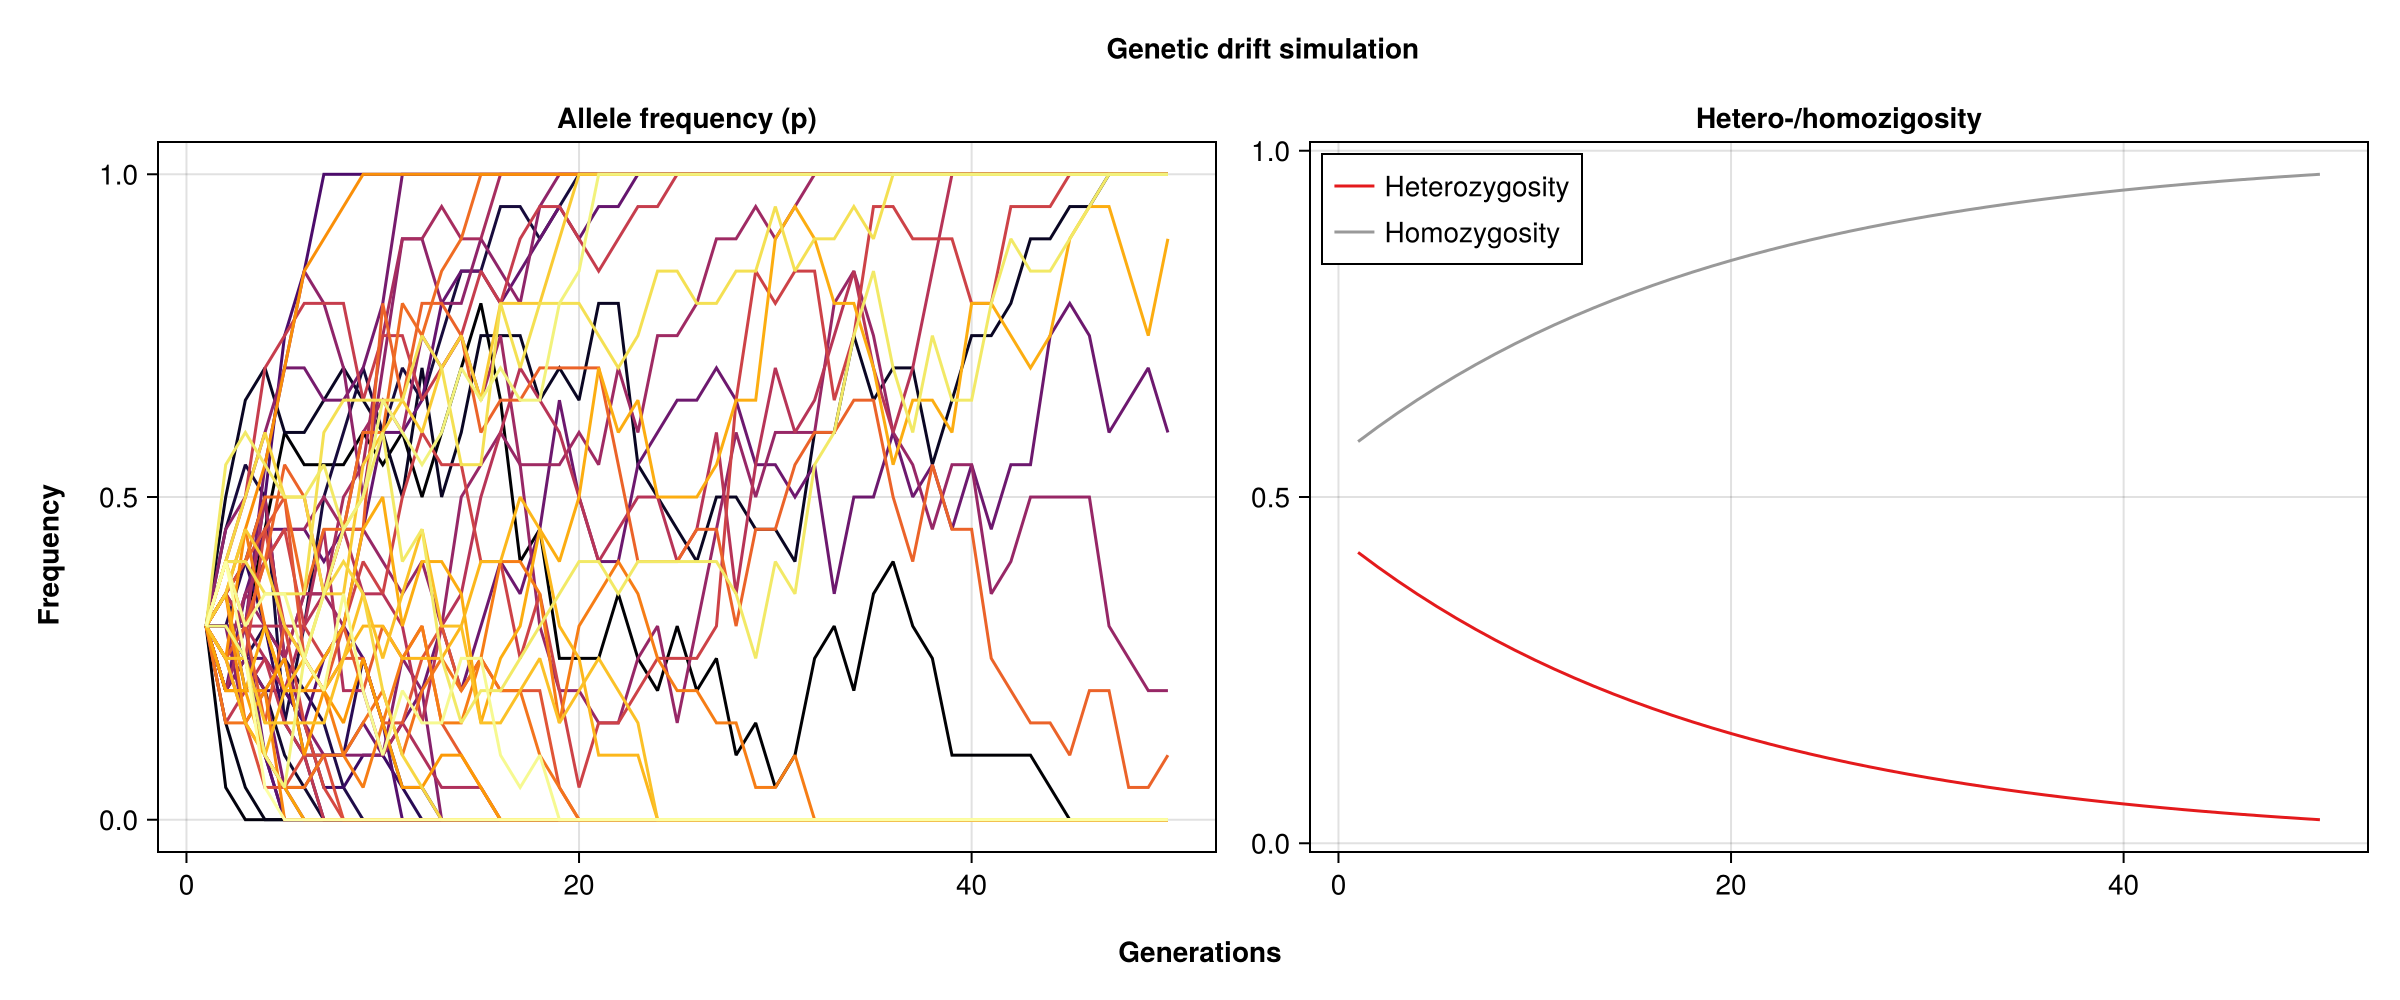
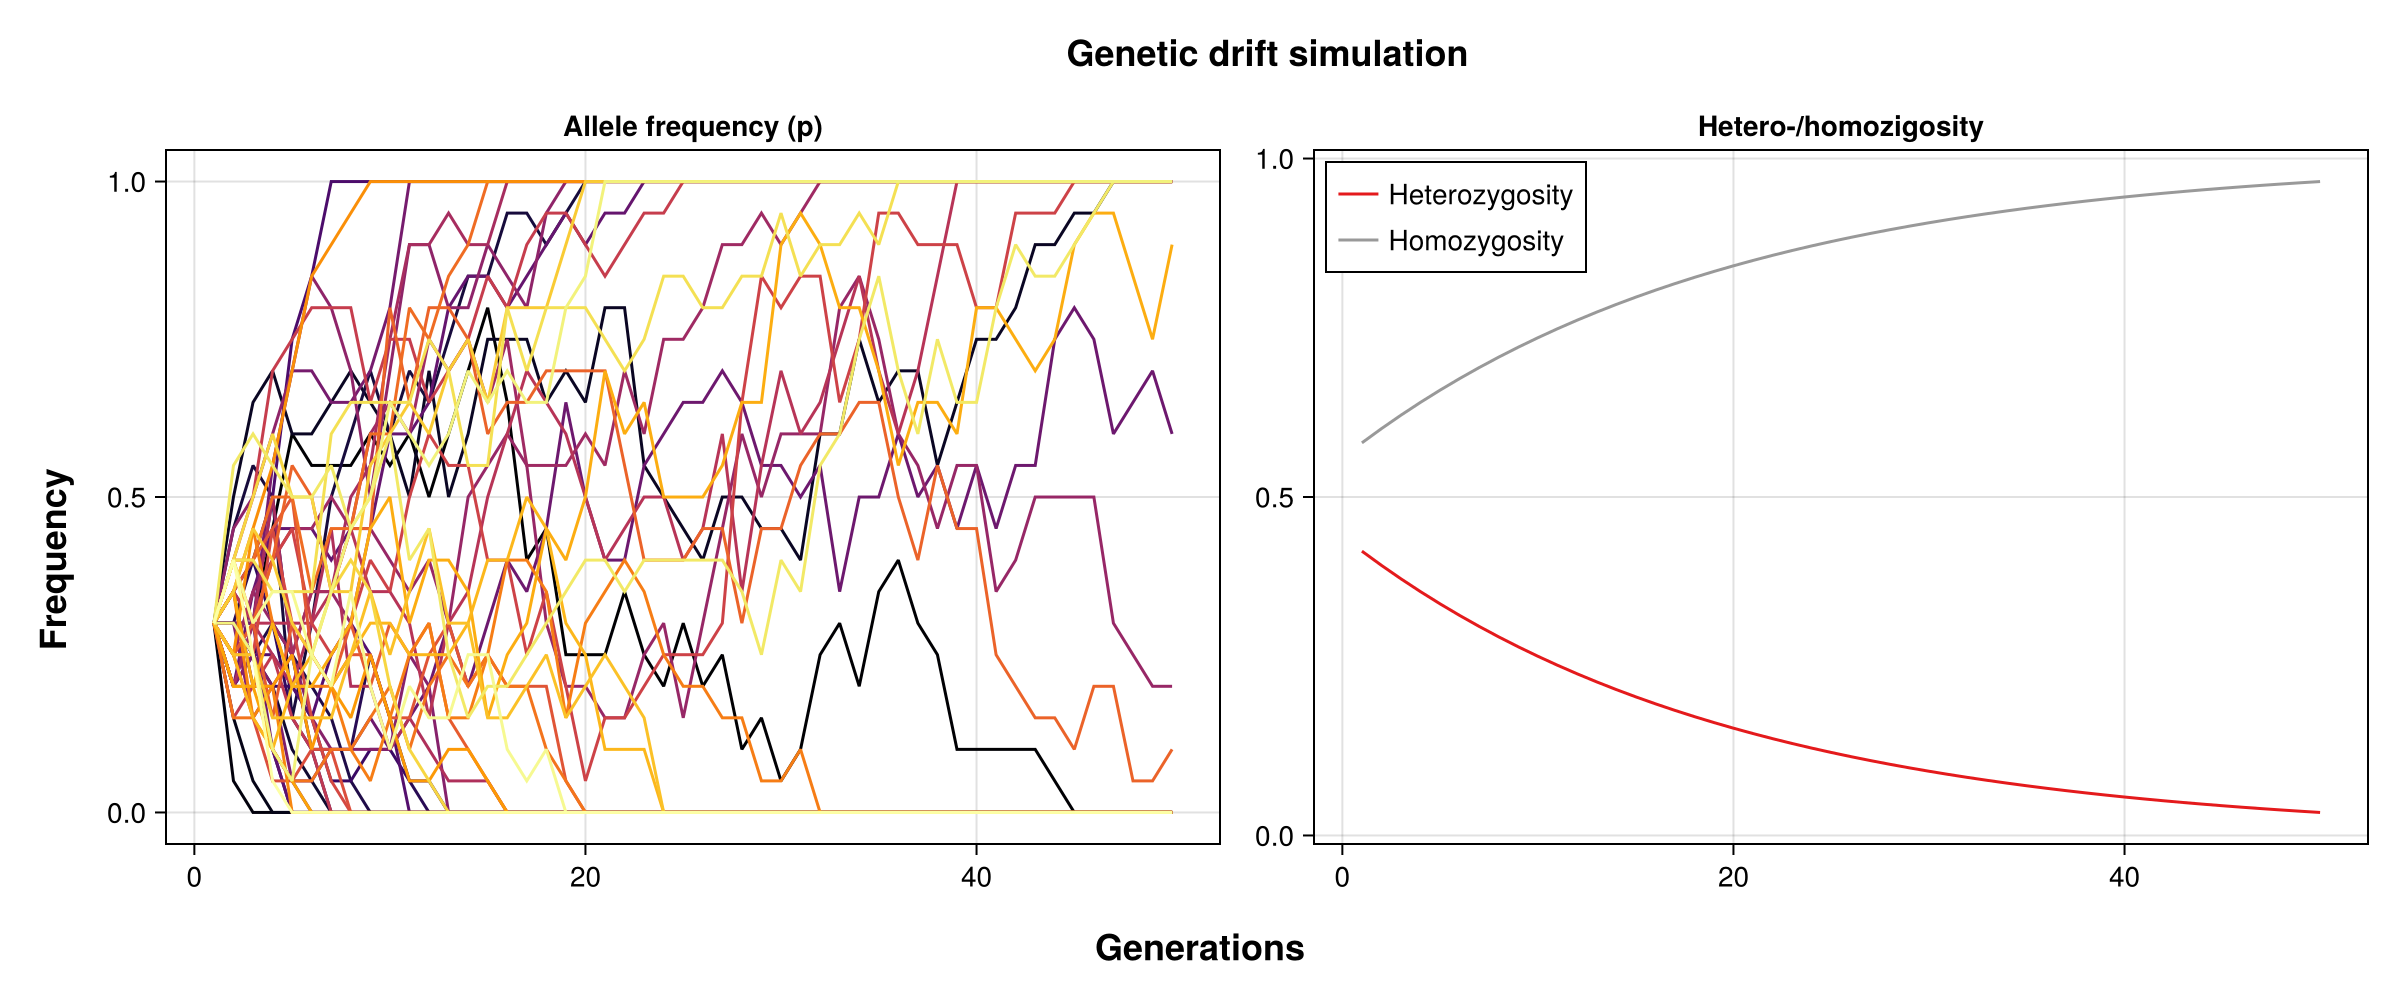
Greater label font size

diff --git a/README.md b/README.md
@@ -12,8 +12,6 @@ This repository aims to implement a genetic drift simulation in both Python and 
 
 In both cases, the code simulates genetic drift according to the [Wright-Fisher model](https://www.sciencedirect.com/topics/biochemistry-genetics-and-molecular-biology/wright-fisher-model), in which random sampling leads to allele fixation, allele loss, reduced heterozygosity, and coalescence (see Python's implementation).
 
-![Genetic Drift Simulation Results](results/images/gendrift-python.png)
-
 ## Wright-Fisher Model
 
 This models a single evolutive force (genetic drift) with the following assumptions:
@@ -51,13 +49,17 @@ $$
 H_e = 2p(1-p)
 $$
 
+![Python's Genetic Drift Simulation Results](results/images/gendrift-python.png)
+
 ## Julia's Implementation
 
-This one uses the traditional **binomial distribution** as it was not intended for tracking the individual copies each allele inherits to the next generation. In contrast with the Python's version, here I computed the heterozygosity $H_e$ as a function of time (Gillespie, 2004, p. 50):
+This one uses the traditional **binomial distribution** as it was not intended for tracking the individual copies each allele inherits to the next generation. In contrast with the Python's version, here I computed the heterozygosity $H_e$ as an exponential decay function of time (Gillespie, 2004, p. 50):
 
 $$
 H_e(t) = H_0(1-\frac{1}{2N})^{t-1}, \text{ }t > 0
 $$
+
+![Julia's Genetic Drift Simulation Results](results/images/genetic_drift_combined-julia.png)
 
 Usage example:
 
@@ -66,4 +68,10 @@ julia --project=. ./src/genetic_drift.jl \
     -i 10 -p 0.3 \
     -g 50 -t 0.42 \
     -o results/images
+```
+
+For more information on the parameters, run:
+
+```shell
+julia --project=. ./src/genetic_drift.jl -h
 ```